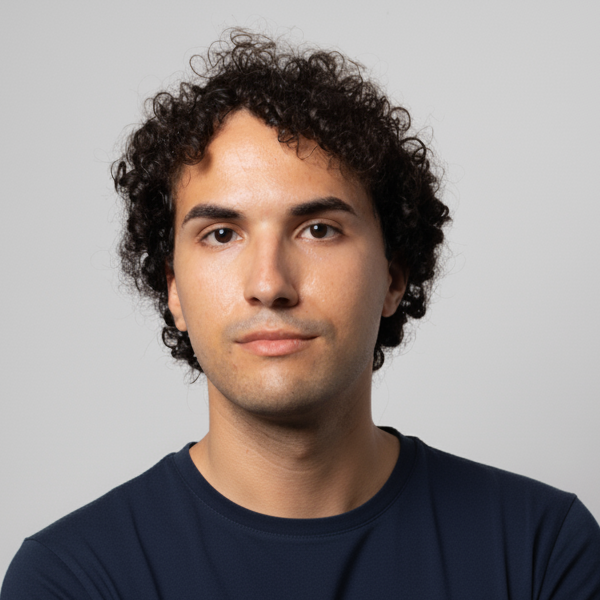
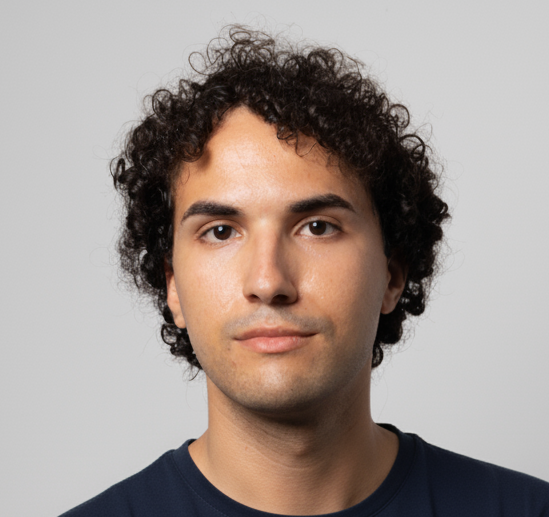
fixed padding

diff --git a/content/_index.md b/content/_index.md
@@ -29,6 +29,8 @@ sections:
       avatar:
         size: medium # Options: small (150px), medium (200px, default), large (320px), xl (400px), xxl (500px)
         shape: circle # Options: circle (default), square, rounded
+      spacing:
+        padding: [0, 0, 0, 0]
   # - block: markdown
   #   content:
   #     title: '📚 My Research'
